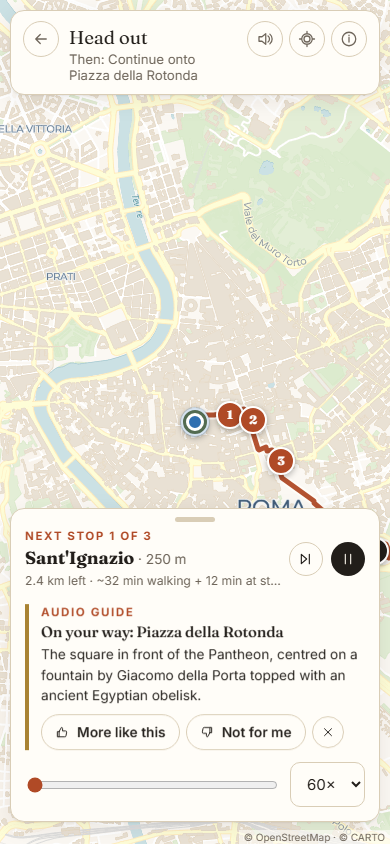
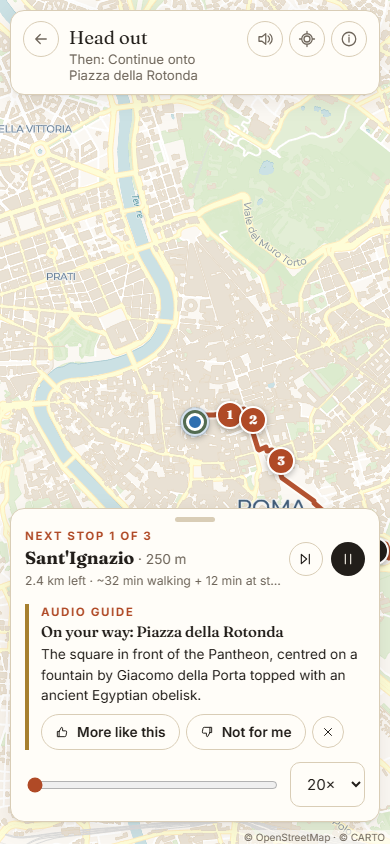
Walk simulation speeds: 5x, 10x, 20x (was 5x, 20x, 60x)
60x was too fast to follow the audio guide.

diff --git a/src/screens/Navigate.tsx b/src/screens/Navigate.tsx
@@ -265,7 +265,7 @@ export function Navigate() {
               <input type="range" min={0} max={Math.round(total)} value={Math.round(simDist)} aria-label="Simulated position along the route"
                 onChange={(e) => setSimDist(+e.target.value)} />
               <select value={speedup} onChange={(e) => setSpeedup(+e.target.value)} aria-label="Simulation speed" style={{ width: 84 }}>
-                {[5, 20, 60].map((s) => <option key={s} value={s}>{s}×</option>)}
+                {[5, 10, 20].map((s) => <option key={s} value={s}>{s}×</option>)}
               </select>
             </div>
           )}
